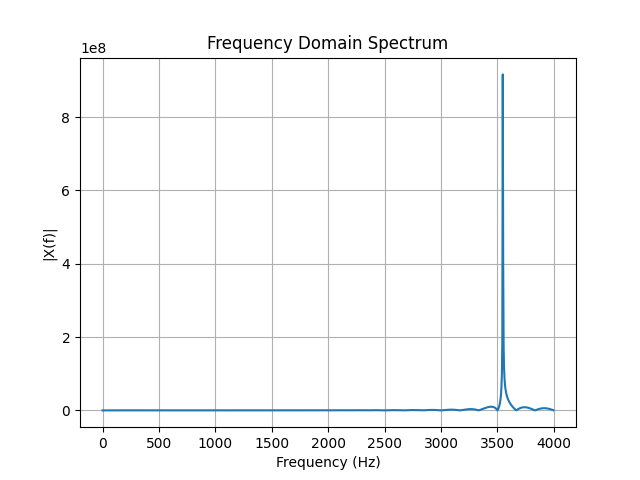
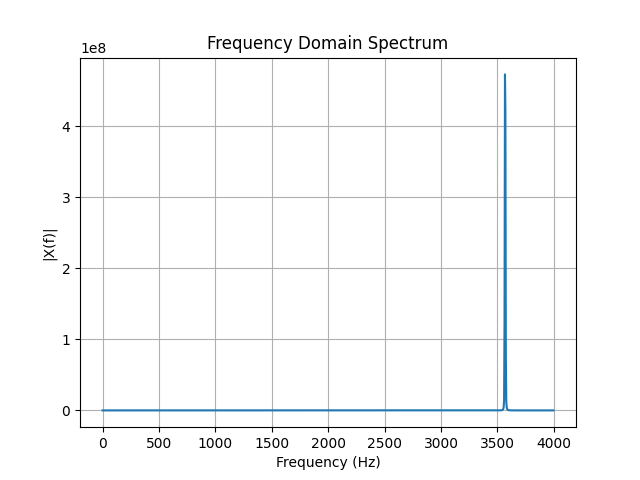
testing efficient_fft(), there is something wrong

Changed region(s): [[0.0938, 0.1562, 0.9062, 0.875], [0.0938, 0.375, 0.125, 0.4375], [0.0938, 0.2188, 0.125, 0.2812]]

diff --git a/CPUlator-testing/fft-testing/FFT-testing.c b/CPUlator-testing/fft-testing/FFT-testing.c
@@ -149,6 +149,55 @@ void fft(double complex * a, int n, bool inverse) {
 
 
 
+void swap(double complex * a, double complex * b) {
+	int temp;
+	temp = *a;
+	*a = *b;
+	*b = temp;
+	return;
+}
+
+
+void efficient_fft(double complex * a, int n, bool inverse) {
+    int log_n = 0;     
+    while ((1 << log_n) < n) log_n++;
+
+    for (int i = 0; i < n; i++) {
+        int reverse = 0;
+        for (int i = 0; i < log_n; i++) {
+            if (i & (1 << i)) 
+                reverse |= 1 << (log_n - 1 - i);
+        }
+        if (i < reverse) swap(a+i, a+reverse);
+    }
+
+    for (int len = 2; len <= n; len <<= 1) {
+
+        double ang = 2 * PI / len * (inverse ? -1 : 1);
+        double complex wlen = CMPLX(cos(ang), sin(ang));
+
+        for (int i = 0; i < n; i += len) {
+            double complex w = CMPLX(1, 0);
+
+            for (int j = 0; j < len / 2; j++) {
+                double complex u = a[i+j], v = a[i+j+len/2] * w;
+                a[i+j] = u + v;
+                a[i+j+len/2] = u - v;
+                w *= wlen;
+            }
+        }
+    }
+
+    if (inverse) {
+        for(int i = 0; i < n; i++){
+            a[i] /= n;    //scaling
+        }           
+    }
+}
+
+
+
+
 
 char* find_note(double * bins, int n){
     int max_k = 1;                      // skip bin 0, which is the DC value
@@ -184,7 +233,7 @@ char * get_fft_result(int * audio_input, int audio_size){
     int n = next_pow2(audio_size);
 
     complex double * a = format_input(audio_input, audio_size);
-    fft(a, n, 0);
+    efficient_fft(a, n, 0);
 
     double * bins = format_result(a, n);
     free(a);
@@ -200,7 +249,7 @@ char * get_fft_result(int * audio_input, int audio_size){
 
 
 
-/*
+
 int main(){
 
     // get input from file, ONLY FOR TESTING
@@ -249,7 +298,7 @@ int main(){
 
     fclose(fptr);
 }
-*/
+
 
 
 
@@ -279,50 +328,3 @@ double * format_result(complex double * a, int n){
 
 
 
-/*
-void swap(double complex * a, double complex * b) {
-	int temp;
-	temp = *a;
-	*a = *b;
-	*b = temp;
-	return;
-}
-
-
-void efficient_fft(double complex * a, int n, bool inverse) {
-    int log_n = 0;     
-    while ((1 << log_n) < n) log_n++;
-
-    for (int i = 0; i < n; i++) {
-        int reverse = 0;
-        for (int i = 0; i < log_n; i++) {
-            if (i & (1 << i)) 
-                reverse |= 1 << (log_n - 1 - i);
-        }
-        if (i < reverse) swap(a+i, a+reverse);
-    }
-
-    for (int len = 2; len <= n; len <<= 1) {
-
-        double ang = 2 * PI / len * (inverse ? -1 : 1);
-        double complex wlen = CMPLX(cos(ang), sin(ang));
-
-        for (int i = 0; i < n; i += len) {
-            double complex w = CMPLX(1, 0);
-
-            for (int j = 0; j < len / 2; j++) {
-                double complex u = a[i+j], v = a[i+j+len/2] * w;
-                a[i+j] = u + v;
-                a[i+j+len/2] = u - v;
-                w *= wlen;
-            }
-        }
-    }
-
-    if (inverse) {
-        for(int i = 0; i < n; i++){
-            a[i] /= n;    //scaling
-        }           
-    }
-}
-*/

diff --git a/source/fft.c b/source/fft.c
@@ -121,7 +121,11 @@ void efficient_fft(Complex * a, int n, bool inverse) {
             if (i & (1 << i)) 
                 reverse |= 1 << (log_n - 1 - i);
         }
-        if (i < reverse) swap(a+i, a+reverse);
+        if (i < reverse) {
+            Complex temp = *(a + i);
+            *(a + i) = *(a + reverse);
+            *(a + reverse) = temp;
+        }
     }
 
     for (int len = 2; len <= n; len <<= 1) {
